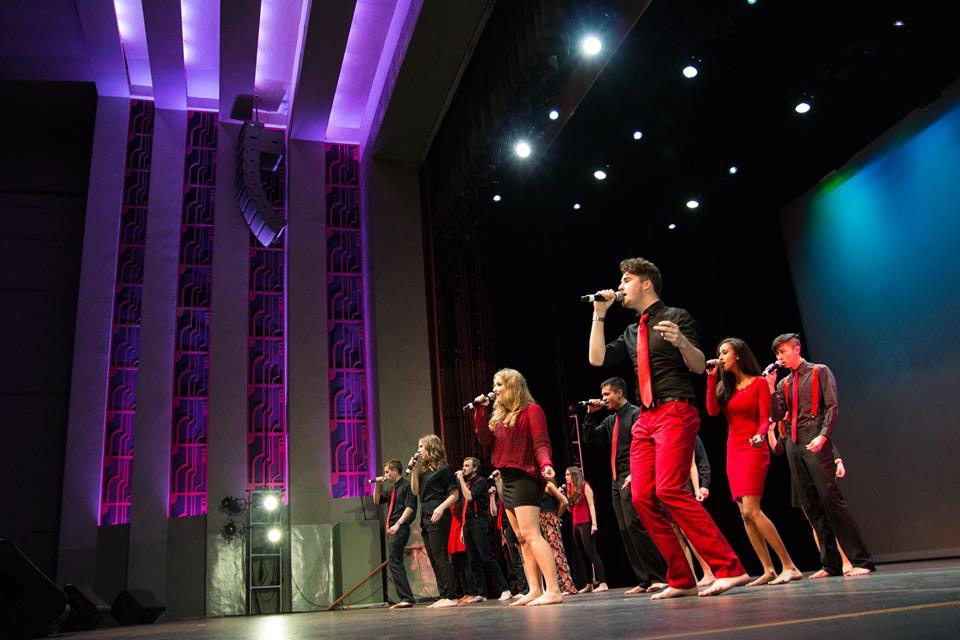
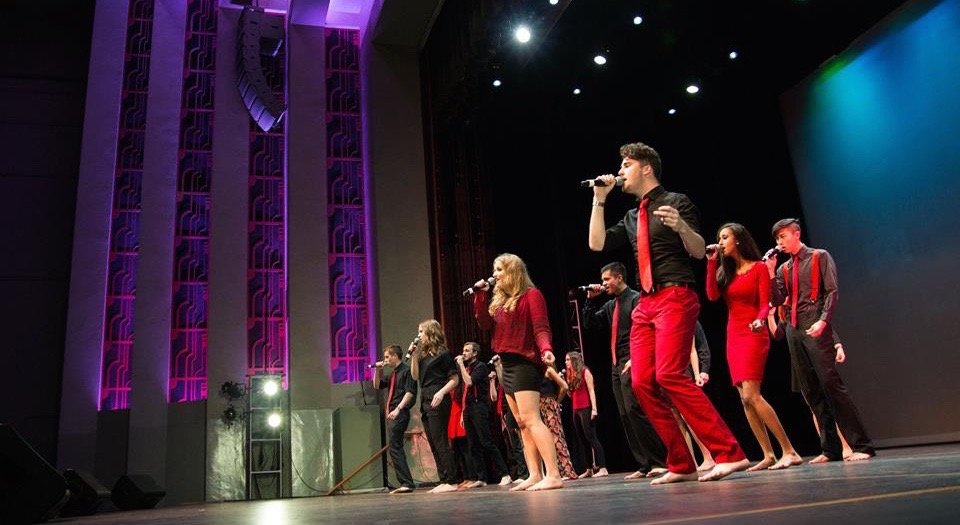
last minute aesthetics before publishing for concert ticket presale

diff --git a/app/assets/stylesheets/events.css b/app/assets/stylesheets/events.css
@@ -2,47 +2,102 @@
   Place all the styles related to the matching controller here.
   They will automatically be included in application.css.
 */
+.event_photo {
+	width: 95%;
+	height: auto;
+	margin-left: auto;
+	margin-right: auto;
+}
 
+/*784 295*/
 .shirts {
 	height: 45%;
 	width: 45%;
 }
+a:link {
+	text-decoration: none;
+}
+a:hover {
+	text-decoration: none;
+}
+a:visited {
+	text-decoration: none;
+}
+
 .pay_link_venmo {
 	height:30px;
 	width: 90px;
+	text-decoration: none;
 }
 
 .pay_link_venmo:hover{
 	border: 1px solid grey;
+	text-decoration: none;
 }
 
 .pay_link_tilt {
 	height:28px;
 	width: 98px;
+	text-decoration: none;
 }
 
 .pay_link_tilt:hover{
 	border: 1px solid grey;
+	text-decoration: none;
 }
 
+.event_photo:hover {
+		border: 3px solid #AE0001;
+		text-decoration: none;
+	}
+
+.event_left_column {
+	float:left;
+	width:50%;
+	text-align: left;
+}
+
+.event_right_column {
+	float:right;
+	width:50%;
+	text-align: left;
+}
 @media (min-width:768px) {
-	.Event_description {
-		padding: 2px;
-		padding-right: 4px;
-		padding-left: 4px;
-		border-style: solid;
-		font-family: 'Roboto', sans-serif;
-		/*font-weight: bold;*/
-		width: 70%;
-		font-size: 25px;
+	.event_left_column {
+		float:left;
+		width:50%;
+		padding-right: 40px;
+		text-align: left;
+	}
+
+	.event_right_column {
+		float:right;
+		width:50%;
+		padding-left: 40px;
+		text-align: left;
+	}
+	.event_photo {
+		width: 65%;
+		height: auto;
 		margin-left: auto;
 		margin-right: auto;
+	}
+	
+	.wrapper {
+		margin-left: auto;
+		margin-right: auto;
+		width: 85%;
 		text-align: center;
+	}
+	.Event_description {
+		font-family: 'Francois One', sans-serif;
+		
+		font-size: 25px;
 		color: white;
-		background: rgba(128, 128, 128, .5)75
+		display:inline-block;
 	}
 	.Event_writing_no_bold {
-		font-family: 'Roboto', sans-serif;
+		font-family: 'Francois One', sans-serif;
 		width: 60%;
 		font-size: 25px;
 		margin-left: auto;
@@ -52,7 +107,8 @@
 
 	}
 	.Event_writing {
-		font-family: 'Roboto', sans-serif;
+		padding-top: 10px;
+		font-family: 'Francois One', sans-serif;
 		font-weight: bold;
 		width: 60%;
 		font-size: 25px;
@@ -63,23 +119,22 @@
 	}
 
 }
+
+.wrapper {
+		margin-left: auto;
+		margin-right: auto;
+		text-align: center;
+}
 .Event_description {
-	padding: 2px;
-	padding-right: 4px;
-	padding-left: 4px;
-	border-style: solid;
-	font-family: 'Roboto', sans-serif;
-	/*font-weight: bold;*/
+	font-family: 'Francois One', sans-serif;
+	width: 98%;
 	font-size: 25px;
-	margin-left: auto;
-	margin-right: auto;
-	text-align: center;
 	color: white;
-	background: rgba(128, 128, 128, .75);
+	display:inline-block;
 }
 
 .Event_writing_no_bold {
-	font-family: 'Roboto', sans-serif;
+	font-family: 'Francois One', sans-serif;
 	font-size: 25px;
 	margin-left: auto;
 	margin-right: auto;
@@ -88,7 +143,8 @@
 
 }
 .Event_writing {
-	font-family: 'Roboto', sans-serif;
+	padding-top: 10px;
+	font-family: 'Francois One', sans-serif;
 	font-weight: bold;
 	font-size: 25px;
 	margin-left: auto;
@@ -96,10 +152,17 @@
 	text-align: center;
 	color: white;
 }
-
-.important_color {
+.red {
+	color: #AE0001;
+}
+.event_important_color {
 	font-size: 30px;
-	color: #990000;
+	color: #AE0001;
 	font-weight: bold;
 
+}
+.smaller_event_important_color {
+	font-size: 25px;
+	color: #AE0001;
+	font-weight: bold;
 }

diff --git a/app/assets/stylesheets/home.scss b/app/assets/stylesheets/home.scss
@@ -2,12 +2,16 @@
 // They will automatically be included in application.css.
 // You can use Sass (SCSS) here: http://sass-lang.com/
 
-@import url(http://fonts.googleapis.com/css?family=Roboto:400,900);
+@import url(http://fonts.googleapis.com/css?family=Francois+One:400,900);
 
-
+.larger {
+	font-size: 35px;
+	font-weight: bold;
+	padding-bottom: 10px;
+}
 
 .Home_title {
-	font-family: 'Roboto', sans-serif;
+	font-family: 'Francois One', sans-serif;
 	font-weight: bold;
 	font-size: 85px;
 	text-align: center;
@@ -19,7 +23,7 @@ iframe {
 	display:block;
 }
 .Smaller_subtitle {
-	font-family: 'Roboto', sans-serif;
+	font-family: 'Francois One', sans-serif;
 	font-weight: bold;
 	font-size: 25px;
 	text-align: center;
@@ -31,7 +35,7 @@ iframe {
 @media (min-width:768px) {
 	.Home_event_no_bold {
 		text-align: center;
-		font-family: 'Roboto', sans-serif;
+		font-family: 'Francois One', sans-serif;
 		font-size: 20px;
 		color: white;
 		vertical-align: middle;
@@ -48,7 +52,7 @@ iframe {
 .Home_event_no_bold {
 	margin: 0 auto;
 	display: inline-block;
-	font-family: 'Roboto', sans-serif;
+	font-family: 'Francois One', sans-serif;
 	font-size: 20px;
 	color: white;
 	vertical-align: middle;
@@ -63,4 +67,8 @@ iframe {
 .pentatonix_home_image:hover{
 	width:61%;
 	height:81%;
+}
+
+.home_important_color {
+	color: #AE0001;
 }

diff --git a/app/assets/stylesheets/application.scss b/app/assets/stylesheets/application.scss
@@ -17,7 +17,7 @@
 @import "bootstrap-sprockets";
 
 @import "bootstrap";
-
+@import url(http://fonts.googleapis.com/css?family=Nunito:400,900);
 
 body { 
   padding-top: 105px;
@@ -60,20 +60,20 @@ width:100%;
 .navbar-inverse .navbar-nav>li>a {
   color: #B9C5C8;
   /*font-weight: bold;*/
-  font-family: 'Roboto', sans-serif;
+  font-family: 'Nunito', sans-serif;
   font-size: 20px;
 }
 .footer_text {
   color: #B9C5C8;
   /*font-weight: bold;*/
-  font-family: 'Roboto', sans-serif;
+  font-family: 'Nunito', sans-serif;
   /*font-size: 20px;*/
 }
 
 .navbar-inverse .navbar-header>a{
 	color: #B9C5C8;
   font-size: 20px;
-  font-family: 'Roboto', sans-serif;
+  font-family: 'Nunito', sans-serif;
 
 }
 
@@ -85,7 +85,7 @@ width:100%;
   color: grey;
   text-decoration: none;
   /*font-weight: bold;*/
-  font-family: 'Roboto', sans-serif;
+  font-family: 'Nunito', sans-serif;
   /*font-size: 20px;*/
 }
 
@@ -93,7 +93,7 @@ width:100%;
   text-decoration: none;
   color: white;
   /*font-weight: bold;*/
-  font-family: 'Roboto', sans-serif;
+  font-family: 'Nunito', sans-serif;
   /*font-size: 20px;*/
 }
 
@@ -113,7 +113,7 @@ width:100%;
 	border:2px solid #4a4e50;
 }
 .Large_title {
-  font-family: 'Roboto', sans-serif;
+  font-family: 'Francois One', sans-serif;
   font-weight: bold;
   font-size: 70px;
   text-align: center;

diff --git a/app/assets/stylesheets/contact.css b/app/assets/stylesheets/contact.css
@@ -5,7 +5,7 @@
 
 
 .Contact_heading {
-	font-family: 'Roboto', sans-serif;
+	font-family: 'Francois One', sans-serif;
 	font-weight: bold;
 	font-size: 35px;
 	margin-left: auto;
@@ -17,7 +17,7 @@
 .Contact_info {
 	padding: 2px;
 	border-style: solid;
-	font-family: 'Roboto', sans-serif;
+	font-family: 'Francois One', sans-serif;
 	width: 390px;
 	font-size: 25px;
 	margin-left: auto;
